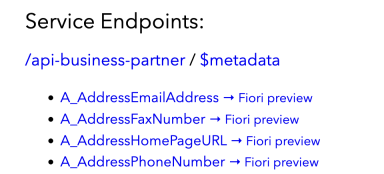
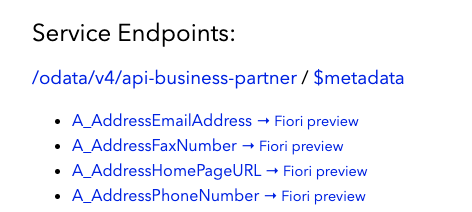
ex05

diff --git a/exercises/04-understand-service-mocking/README.md b/exercises/04-understand-service-mocking/README.md
@@ -26,21 +26,23 @@ This should produce log output that looks like this:
   node_modules/@sap/cds/common.cds
 
 [cds] - connect to db > sqlite { url: ':memory:' }
-  > init from db/data/acme.incmgt-Appointments.csv 
-  > init from db/data/acme.incmgt-Incidents.conversation.csv 
-  > init from db/data/acme.incmgt-Incidents.csv 
-  > init from db/data/acme.incmgt-Incidents_status.csv 
-  > init from db/data/acme.incmgt-Incidents_status.texts.csv 
-  > init from db/data/acme.incmgt-Incidents_urgency.csv 
-  > init from db/data/acme.incmgt-Incidents_urgency.texts.csv 
-  > init from db/data/acme.incmgt-ServiceWorkers.csv 
-  > init from db/data/acme.incmgt-TeamCalendar.csv 
-/> successfully deployed to in-memory database. 
+  > init from db/data/acme.incmgt-TeamCalendar.csv
+  > init from db/data/acme.incmgt-ServiceWorkers.csv
+  > init from db/data/acme.incmgt-Incidents_urgency.texts.csv
+  > init from db/data/acme.incmgt-Incidents_urgency.csv
+  > init from db/data/acme.incmgt-Incidents_status.texts.csv
+  > init from db/data/acme.incmgt-Incidents_status.csv
+  > init from db/data/acme.incmgt-Incidents.csv
+  > init from db/data/acme.incmgt-Incidents.conversation.csv
+  > init from db/data/acme.incmgt-Appointments.csv
+/> successfully deployed to in-memory database.
 
-[cds] - serving IncidentsService { path: '/incidents', impl: 'srv/incidents-service.js' }
+[cds] - using auth strategy { kind: 'mocked', impl: 'node_modules/@sap/cds/lib/auth/basic-auth' }
+
+[cds] - serving IncidentsService { path: '/odata/v4/incidents', impl: 'srv/incidents-service.js' }
 
 [cds] - server listening on { url: 'http://localhost:4004' }
-[cds] - launched at 9/5/2023, 10:34:14 AM, version: 6.8.4, in: 2.505s
+[cds] - launched at 1/29/2024, 9:36:59 AM, version: 7.5.3, in: 2.254s
 [cds] - [ terminate with ^C ]
 ```
 
@@ -53,11 +55,11 @@ This shouldn't be too surprising, as `API_BUSINESS_PARTNER` is defined as an ext
 ```text
 [cds] - loaded model from 5 file(s):
 
-  db/schema.cds
-  srv/incidents-service.cds
-  app/fiori.cds
   srv/external/API_BUSINESS_PARTNER.csn
-  ../../../usr/local/share/npm-global/lib/node_modules/@sap/cds-dk/node_modules/@sap/cds/common.cds
+  app/fiori.cds
+  srv/incidents-service.cds
+  db/schema.cds
+  node_modules/@sap/cds/common.cds
 ```
 
 👉 For now, stop the server again with Ctrl-C.
@@ -85,11 +87,11 @@ service IncidentsService {
 }
 ```
 
-While you do this (and assuming you're typing it in manually, like a good participant!) notice how the CDS language support makes it very easy to explore the resources with keyboard completion, as it knows how to read and present the definitions in the recently imported external service:
+While you do this (and assuming you're typing it in manually, like a good participant!) notice how the CDS language support in your editor makes it very easy to explore the resources with keyboard completion, as it knows how to read and present the definitions in the recently imported external service:
 
 ![completion of resources from the external service](assets/external-completion.png)
 
-👉 At the command line, restart the server by stopping the running one with Ctrl-C and then invoking `cds run` again:
+👉 At the command line, restart the server (you should have stopped it earlier in this exercise with Ctrl-C) by invoking `cds run` again:
 
 ```bash
 cds run
@@ -101,7 +103,7 @@ This should produce log output similar to what you saw just before - no discerni
 
 ![customers endpoint](assets/customers-endpoint.png)
 
-👉 Select that `Customers` endpoint link <http://localhost:4004/incidents/Customers> (not the Fiori preview one). What do you get?
+👉 Select that `Customers` endpoint link <http://localhost:4004/odata/v4/incidents/Customers> (not the Fiori preview one). What do you get?
 
 ```xml
 <error xmlns="http://docs.oasis-open.org/odata/ns/metadata">
@@ -169,14 +171,15 @@ We used `cds run` to illustrate the issue, or rather the distinction between loc
 cds watch
 ```
 
-Examine the log output, which should now look something like this:
+👉 Examine the log output, which should now look something like this:
 
 ```text
-cds serve all --with-mocks --in-memory? 
-live reload enabled for browsers 
+
+cds serve all --with-mocks --in-memory?
+live reload enabled for browsers
 
         ___________________________
- 
+
 [cds] - loaded model from 5 file(s):
 
   app/fiori.cds
@@ -187,23 +190,26 @@ live reload enabled for browsers
 
 [cds] - connect using bindings from: { registry: '~/.cds-services.json' }
 [cds] - connect to db > sqlite { url: ':memory:' }
-  > init from db/data/acme.incmgt-Appointments.csv 
-  > init from db/data/acme.incmgt-Incidents.conversation.csv 
-  > init from db/data/acme.incmgt-Incidents.csv 
-  > init from db/data/acme.incmgt-Incidents_status.csv 
-  > init from db/data/acme.incmgt-Incidents_status.texts.csv 
-  > init from db/data/acme.incmgt-Incidents_urgency.csv 
-  > init from db/data/acme.incmgt-Incidents_urgency.texts.csv 
-  > init from db/data/acme.incmgt-ServiceWorkers.csv 
-  > init from db/data/acme.incmgt-TeamCalendar.csv 
-/> successfully deployed to in-memory database. 
+  > init from db/data/acme.incmgt-TeamCalendar.csv
+  > init from db/data/acme.incmgt-ServiceWorkers.csv
+  > init from db/data/acme.incmgt-Incidents_urgency.texts.csv
+  > init from db/data/acme.incmgt-Incidents_urgency.csv
+  > init from db/data/acme.incmgt-Incidents_status.texts.csv
+  > init from db/data/acme.incmgt-Incidents_status.csv
+  > init from db/data/acme.incmgt-Incidents.csv
+  > init from db/data/acme.incmgt-Incidents.conversation.csv
+  > init from db/data/acme.incmgt-Appointments.csv
+/> successfully deployed to in-memory database.
 
-[cds] - serving IncidentsService { path: '/incidents', impl: 'srv/incidents-service.js' }
-[cds] - mocking API_BUSINESS_PARTNER { path: '/api-business-partner' }
+[cds] - using auth strategy { kind: 'mocked', impl: 'node_modules/@sap/cds/lib/auth/basic-auth' }
+
+[cds] - serving IncidentsService { path: '/odata/v4/incidents', impl: 'srv/incidents-service.js' }
+[cds] - mocking API_BUSINESS_PARTNER { path: '/odata/v4/api-business-partner' }
 
 [cds] - server listening on { url: 'http://localhost:4004' }
-[cds] - launched at 9/5/2023, 10:38:31 AM, version: 6.8.4, in: 1.509s
+[cds] - launched at 1/29/2024, 9:58:39 AM, version: 7.5.3, in: 1.486s
 [cds] - [ terminate with ^C ]
+
 ```
 
 It looks very similar to the output we've just seen from `cds run`, but there are a few essential additions.
@@ -214,7 +220,6 @@ It looks very similar to the output we've just seen from `cds run`, but there ar
 
 ```text
 cds serve all --with-mocks --in-memory?
-watching: cds,csn,csv,ts,mjs,cjs,js,json,properties,edmx,xml,env,css,gif,html,jpg,png,svg...
 live reload enabled for browsers
 ```
 
@@ -244,18 +249,18 @@ It's that second sentence that is key for us here. Our imported `API_BUSINESS_PA
 This automatic mocking is thus reflected in another difference in the log output of our invocation of `cds watch`, where we see this additional line:
 
 ```text
-[cds] - mocking API_BUSINESS_PARTNER { path: '/api-business-partner' }
+[cds] - mocking API_BUSINESS_PARTNER { path: '/odata/v4/api-business-partner' }
 ```
 
-This shows us that the external service is being mocked, and being made available under a separate path in the service. That path is `/api-business-partner`.
+This shows us that the external service is being mocked, and being made available under a separate path in the service. That path is `/odata/v4/api-business-partner`.
 
 👉 Head on over to <http://localhost:4004> to see what is being served in the context of `cds watch` now. You should see something like this (just the first part is shown in this screenshot, there are more entities in the list):
 
 ![the API_BUSINESS_PARTNER service endpoint](assets/api-business-partner-service-endpoint.png)
 
-This is a separate, second service endpoint that's now being served, at `/api-business-partner`, in addition to the `/incidents` service endpoint, which is listed further down.
+This is a separate, second service endpoint that's now being served, at `/odata/v4/api-business-partner`, in addition to the `/odata/v4/incidents` service endpoint, which is listed further down.
 
-👉 Try this mocking out for yourself, by selecting the `A_BusinessPartner` entity from the `api-business-partner` service endpoint, i.e. <http://localhost:4004/api-business-partner/A_BusinessPartner>.
+👉 Try this mocking out for yourself, by selecting the `A_BusinessPartner` entity, i.e. <http://localhost:4004/odata/v4/api-business-partner/A_BusinessPartner>.
 
 You should be presented with something like this:
 
@@ -268,7 +273,7 @@ You should be presented with something like this:
 
 It's not much, but it's better than an error, it's an actual valid response (check out the [Questions](#questions) section below for a couple of things to ponder on this output).
 
-👉 While you're there, head to the `/incidents` service endpoint and select the `Customers` link. The output should be similar, i.e. no error relating to persistence being skipped:
+👉 While you're there, head to the `/odata/v4/incidents` service endpoint and select the `Customers` link. The output should be similar, i.e. no error relating to persistence being skipped:
 
 ```text
 {
@@ -277,7 +282,7 @@ It's not much, but it's better than an error, it's an actual valid response (che
 }
 ```
 
-> This (empty) data set, at <http://localhost:4004/incidents/Customers>, is actually the same source as <http://localhost:4004/api-business-partner/A_BusinessPartner>, except of course that the `@odata.context` tells us that semantically (from the data model perspective) the entity is different.
+> This (empty) data set, at <http://localhost:4004/odata/v4/incidents/Customers>, is actually the same source as <http://localhost:4004/odata/v4/api-business-partner/A_BusinessPartner>, except of course that the `@odata.context` tells us that semantically (from the data model perspective) the entity is different.
 
 ## Learn about the CDS services registry
 
@@ -302,13 +307,13 @@ This file contains sections for services provided, and services required, and is
       "API_BUSINESS_PARTNER": {
         "kind": "odata",
         "credentials": {
-          "url": "http://localhost:4004/api-business-partner"
+          "url": "http://localhost:4004/odata/v4/api-business-partner"
         }
       },
       "IncidentsService": {
         "kind": "odata",
         "credentials": {
-          "url": "http://localhost:4004/incidents"
+          "url": "http://localhost:4004/odata/v4/incidents"
         }
       }
     }
@@ -354,7 +359,7 @@ service IncidentsService {
 
 👉 Assuming your `cds watch` process is still running at this point, note what happens when these changes are saved and the CAP server restarts. 
 
-Both service endpoints, i.e. `/api-business-partner` and `/incidents` are still available and being served (at <http://localhost:4004>), and the `/api-business-partner/A_BusinessPartner` resource still returns (an empty) entity set. You can see that this is due to the mocking, not to any of the modifications you'd made to this service layer CDS file. However, you should also notice that the `Customers` resource in the `/incidents` service endpoint is now gone again.
+Both service endpoints, i.e. `/odata/v4/api-business-partner` and `/odata/v4/incidents` are still available and being served (at <http://localhost:4004>), and the `/odata/v4/api-business-partner/A_BusinessPartner` resource still returns (an empty) entity set. You can see that this is due to the mocking, not to any of the modifications you'd made to this service layer CDS file. However, you should also notice that the `Customers` resource in the `/incidents` service endpoint is now gone again.
 
 👉 Take a moment to think about the approach we took here to bring in an external service. While it's possible, it's rather too direct, and definitely not the cleanest and most modular approach. This is why we've removed this experiment now.
 
